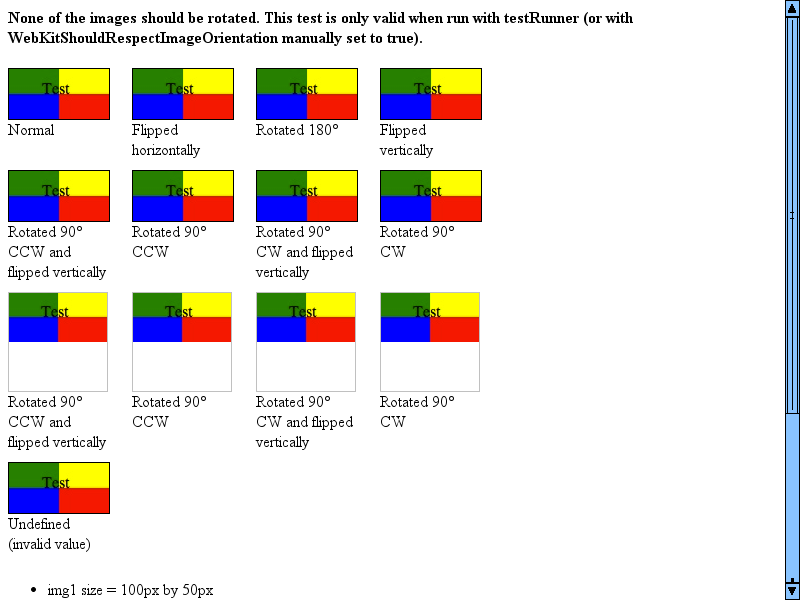
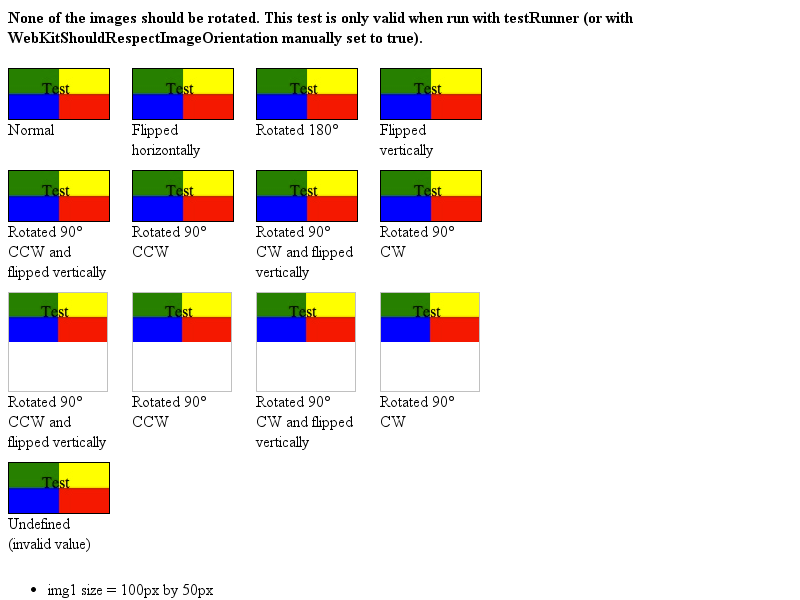
Remove scrollbars rom fast/images/exif-orientation-css.html
This test is larger than the viewport, but the text outside the
viewport is the console output and not part of the test's pixel
results to verify pass/fail.

Use overflow:hidden to prevent scrollbars so we don't test the
scrollbars' pixel output in this test.

R=enne@chromium.org
BUG=364946

Review URL: https://codereview.chromium.org/247793003

git-svn-id: svn://svn.chromium.org/blink/trunk@172385 bbb929c8-8fbe-4397-9dbb-9b2b20218538

Changed region(s): [[0.9688, 0.0, 1.0, 1.0]]

diff --git a/LayoutTests/fast/images/exif-orientation-css.html b/LayoutTests/fast/images/exif-orientation-css.html
@@ -29,6 +29,7 @@ function load() {
 div.image { display: inline-block; border: 1px solid black; }
 div.container { display: inline-block; margin-right: 20px; margin-bottom: 10px; width: 100px; vertical-align: top; }
 img { width: 100px; height: 100px; background-repeat: no-repeat; }
+body { overflow: hidden; }
 </style>
 </head>
 <body onload="load()">
